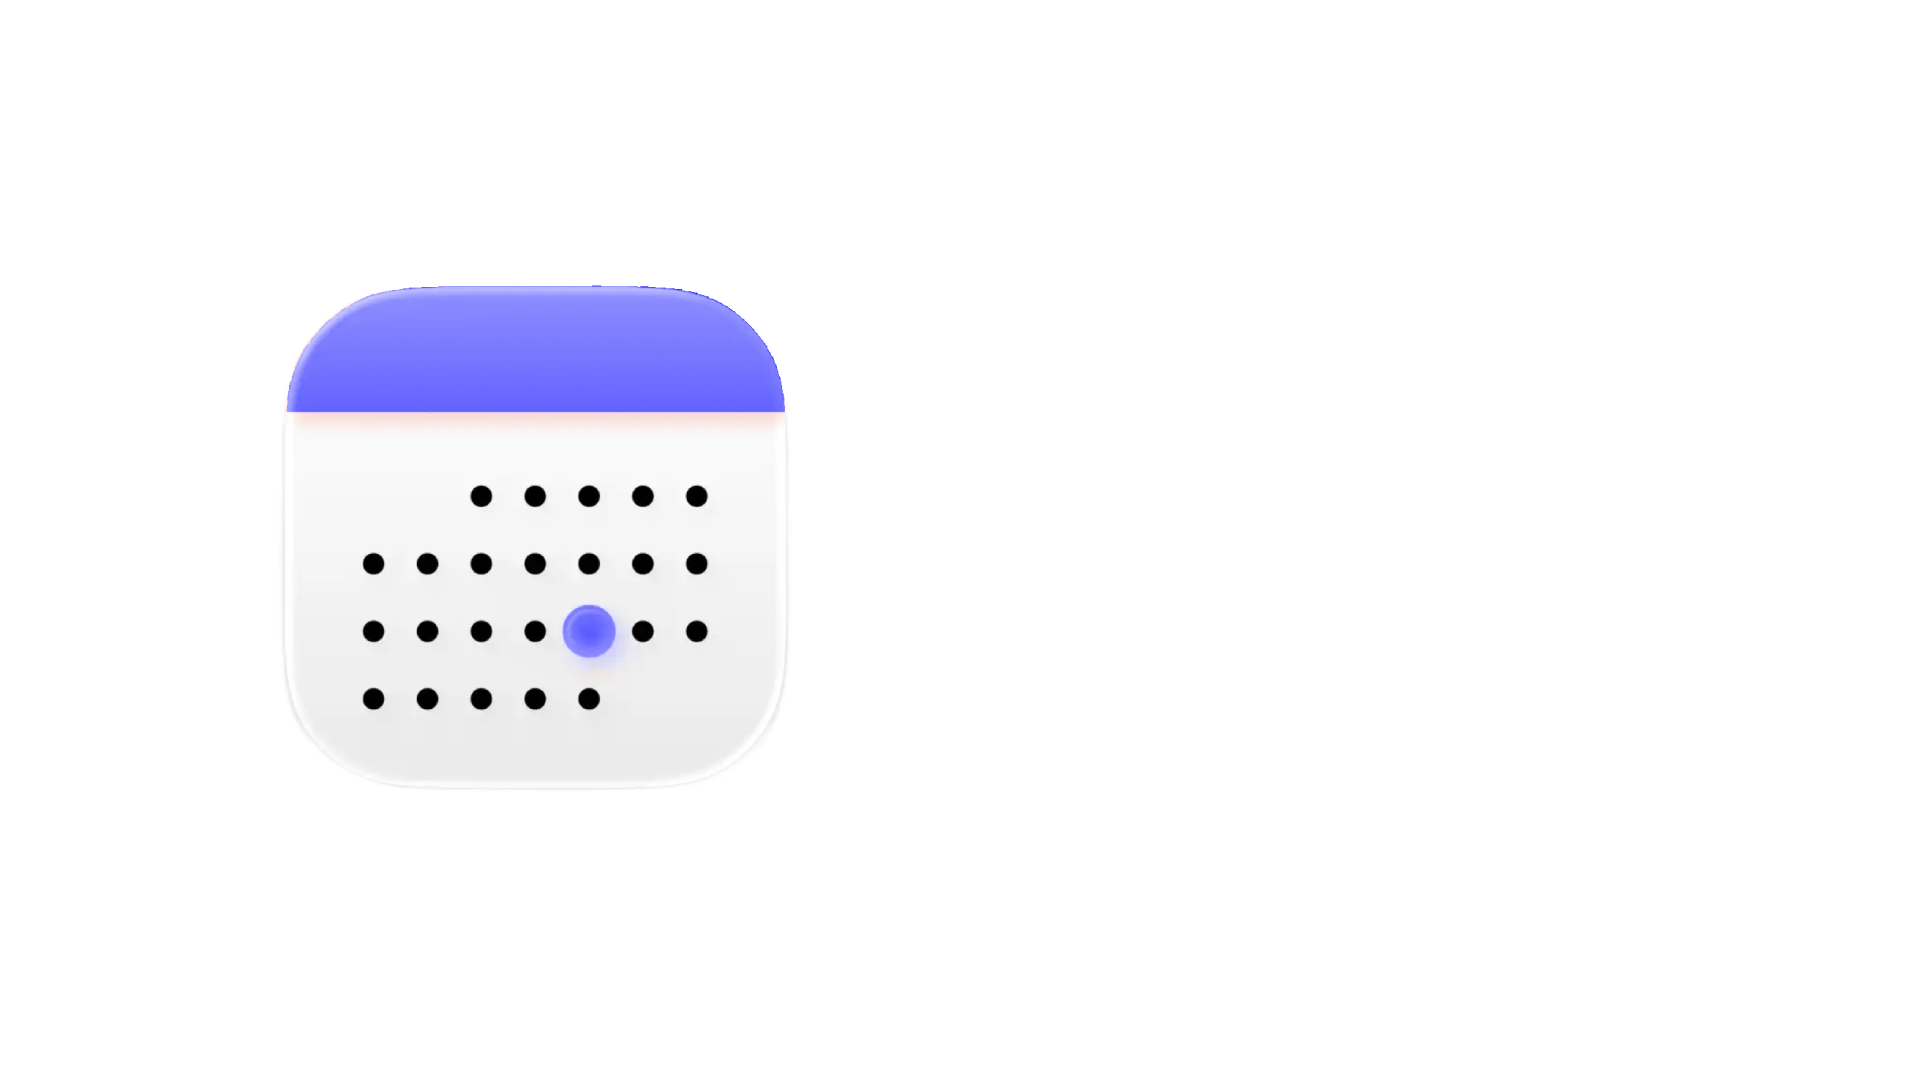
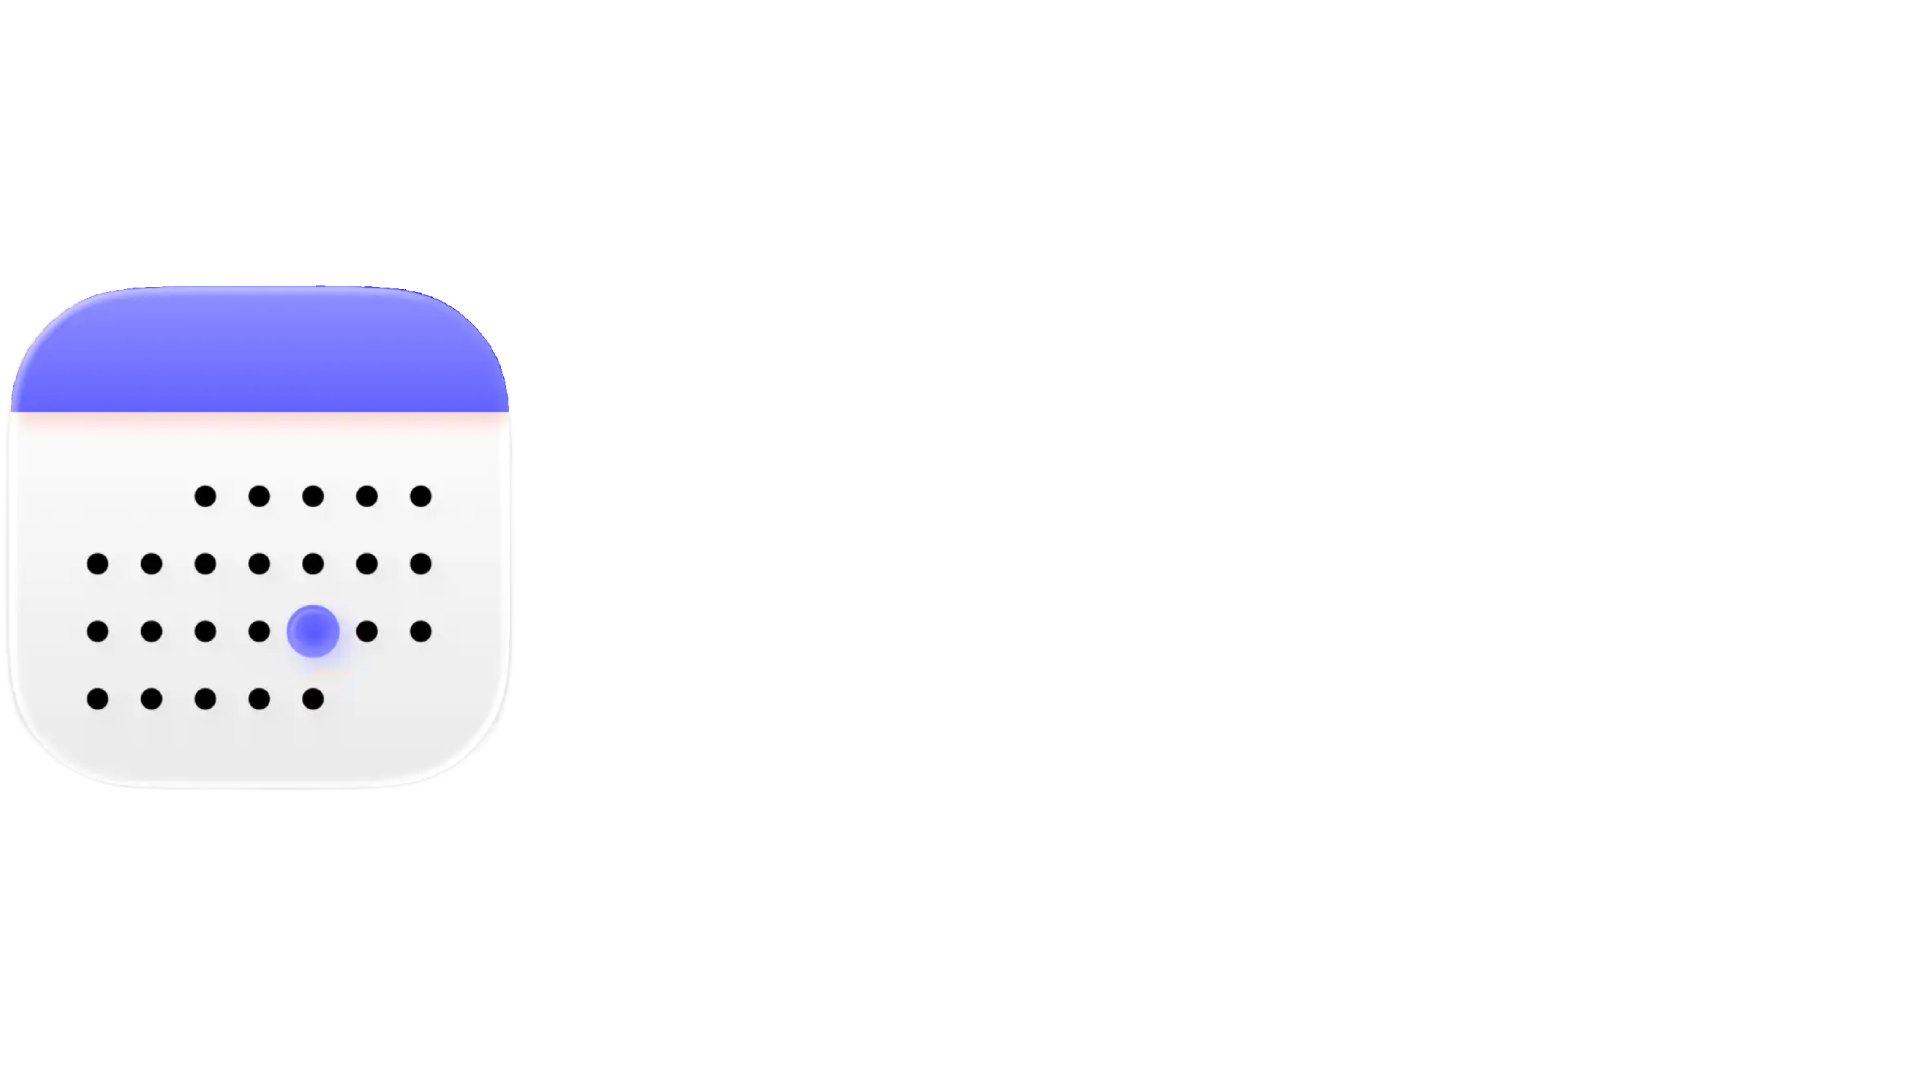
Made all project page images left alined

Changed region(s): [[0.0, 0.2444, 0.4062, 0.3972], [0.0312, 0.4278, 0.375, 0.6722]]

diff --git a/projects/index.html b/projects/index.html
@@ -45,22 +45,22 @@
     <p class="title" style="text-align: center; margin-bottom: 35px;">Projects</p>
     <div style="display: flex; justify-content: center; gap: 15px; flex-wrap: wrap;">
         <div class="project" onclick="window.open('https:\/\/darkmodesites.com', '_blank'); return false;">
-        <img src="DarkMode Sites.png">
+        <img style="padding: 10px;" src="DarkMode Sites.png">
         <p style="padding: 10px; line-height: 1.6;">"DarkMode Sites" is my first website and big project I have worked on. I started it back in August of 2021 and have since updated it periodically. It's basically a cool and visual list of applications, websites, and extensions that have DarkMode. I first created it because I had gone to darkmodelist.com and found that it had a pay wall for additions and it made me angry. It originally was called "DarkMode sheets" but I rebranded it when I wanted to make a custom domain and found that darkmodesheets.com was taken.</p>
         <p style="padding: 10px; line-height: 1.6; margin-top: auto;">Status: <span style="color:rgb(78, 78, 0);">Work In Progress</span></p>
         </div>
         <div class="project" onclick="window.open('https:\/\/dailytracker.bobjoerules.com', '_blank'); return false;">
-        <img src="Daily Tracker.png">
+        <img style="padding: 10px;" src="Daily Tracker.png">
         <p style="padding: 10px; line-height: 1.6;">This is the newest project I've been working on. I found that I wanted to track how many times I did something daily. So I created this, a very customizable daily tracker where all of the data is stored locally on the browser and each value's data resets daily.</p>
         <p style="padding: 10px; line-height: 1.6; margin-top: auto;">Status: <span style="color:rgb(78, 78, 0);">Work In Progress</span></p>
         </div>
         <div class="project" onclick="window.open('https:\/\/emoji.bobjoerules.com', '_blank'); return false;">
-        <img src="Emoji Site.png">
+        <img style="padding: 10px;" src="Emoji Site.png">
         <p style="padding: 10px; line-height: 1.6;">Just something cool I decided to make. It's basically a website where you can make custom emojis.</p>
         <p style="padding: 10px; line-height: 1.6; margin-top: auto;">Status: <span style="color:rgb(78, 78, 0);">Work In Progress</span></p>
         </div>
         <div class="project" onclick="window.open('https:\/\/dababy.bobjoerules.com', '_blank'); return false;">
-        <img src="DaBaby.png">
+        <img style="padding: 10px;" src="DaBaby.png">
         <p style="padding: 10px; line-height: 1.6;">This was really my very first thing I have ever coded other then things on scratch. At the height of the DaBaby meme in 2021, I was fascinated by Discord bots and discord.js so I decided to create a discord bot about DaBaby. As I wasn't 18 yet, It never blew up because by the time I was able to verify it, the meme was dead.</p>
         <p style="padding: 10px; line-height: 1.6; margin-top: auto;">Status: <span style="color:rgb(78, 0, 0);">Discontinued</span></p>
         </div>
